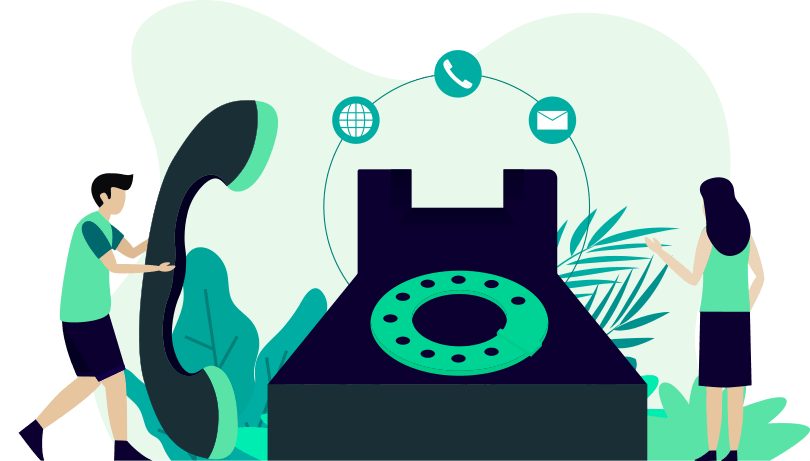
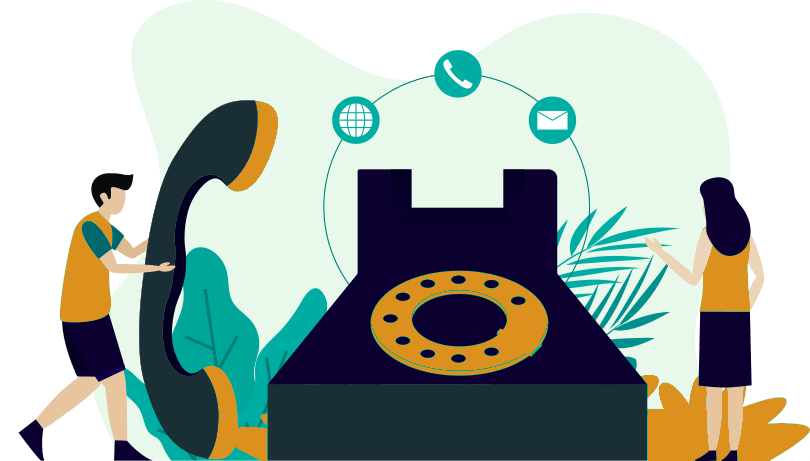
small design changes

diff --git a/src/App.jsx b/src/App.jsx
@@ -5,15 +5,15 @@ import AboutPage from "./pages/about"
 import ServicePage from "./pages/service"
 import ServiceDetails from "./templates/service-details"
 import TeamPage from "./pages/team"
-import FaqPage from "./pages/faq"
-import BlogPage from "./pages/blog"
-import BlogLeftSidebarPage from "./pages/blog-left-sidebar"
-import BlogRightSidebarPage from "./pages/blog-right-sidebar"
-import BlogDetailsPage from "./templates/blog-details"
-import BlogAuthor from "./templates/blog-author"
-import BlogDate from "./templates/blog-date"
-import BlogTag from "./templates/blog-tag"
-import BlogCategory from "./templates/blog-category"
+// import FaqPage from "./pages/faq"
+// import BlogPage from "./pages/blog"
+// import BlogLeftSidebarPage from "./pages/blog-left-sidebar"
+// import BlogRightSidebarPage from "./pages/blog-right-sidebar"
+// import BlogDetailsPage from "./templates/blog-details"
+// import BlogAuthor from "./templates/blog-author"
+// import BlogDate from "./templates/blog-date"
+// import BlogTag from "./templates/blog-tag"
+// import BlogCategory from "./templates/blog-category"
 import ContactPage from "./pages/contact"
 import "swiper/components/navigation/navigation.scss"
 import "swiper/swiper.scss"
@@ -50,15 +50,15 @@ const App = () => {
             path={`${process.env.PUBLIC_URL + "/team"}`}
             component={TeamPage}
           />
-          <Route
+          {/* <Route
             path={`${process.env.PUBLIC_URL + "/faq"}`}
             component={FaqPage}
-          />
+          />*/}
           <Route
             path={`${process.env.PUBLIC_URL + "/contact"}`}
             component={ContactPage}
           />
-          <Route
+          {/* <Route
             path={`${process.env.PUBLIC_URL + "/blog"}`}
             component={BlogPage}
           />
@@ -69,8 +69,8 @@ const App = () => {
           <Route
             path={`${process.env.PUBLIC_URL + "/blog-right-sidebar"}`}
             component={BlogRightSidebarPage}
-          />
-          <Route
+          />*/}
+          {/* <Route
             path={`${process.env.PUBLIC_URL + "/blog-details/:id"}`}
             component={BlogDetailsPage}
           />
@@ -81,15 +81,15 @@ const App = () => {
           <Route
             path={`${process.env.PUBLIC_URL + "/date/:date"}`}
             component={BlogDate}
-          />
-          <Route
+          />*/}
+          {/*<Route
             path={`${process.env.PUBLIC_URL + "/tag/:slug"}`}
             component={BlogTag}
           />
           <Route
             path={`${process.env.PUBLIC_URL + "/category/:slug"}`}
             component={BlogCategory}
-          />
+          />*/}
         </Switch>
       </NavScrollTop>
     </Router>

diff --git a/src/assets/scss/component/_team.scss b/src/assets/scss/component/_team.scss
@@ -11,7 +11,7 @@
   }
   margin-right: -30px;
   @include max-screen(767) {
-    margin-right: 0px;
+    margin-right: 0;
   }
 }
 .team-grid-item {
@@ -30,12 +30,10 @@
   @include max-screen(575) {
     width: 100%;
   }
-
-  margin-right: 30px;
   margin-right: 15px;
 
   @include max-screen(575) {
-    margin-right: 0px;
+    margin-right: 0;
   }
   &:nth-child(1) {
     margin-left: 40px;
@@ -51,8 +49,8 @@
       margin-right: 30px;
     }
     @include max-screen(575) {
-      margin-left: 0px;
-      margin-right: 0px;
+      margin-left: 0;
+      margin-right: 0;
     }
   }
 
@@ -60,7 +58,7 @@
     margin-top: 5.625rem;
 
     @include max-screen(575) {
-      margin-top: 0rem;
+      margin-top: 0;
     }
   }
 
@@ -80,7 +78,7 @@
     }
 
     @include max-screen(575) {
-      margin-left: 0px;
+      margin-left: 0;
     }
   }
 }
@@ -88,25 +86,22 @@
 .team-card {
   text-align: center;
   padding: 35px;
-  border: 1px solid #59e3a7;
+  border: 1px solid #dc911e;
   background-color: #fbfbfb;
   border-radius: 85px;
   transition: all 0.3s;
   &:hover,
   &.active {
     border-color: #263238;
-    box-shadow: 0px 9px 35px 0px rgba(0, 0, 0, 0.09);
+    box-shadow: 0 9px 35px 0 rgba(0, 0, 0, 0.09);
   }
   .thumb {
     a {
       display: block;
-      // img {
-      //   width: 100%;
-      // }
     }
   }
   .content {
-    padding: 1.25rem 0rem;
+    padding: 1.25rem 0;
     .title {
       transition: all 0.3s ease-in-out;
       color: $card-headings-color;

diff --git a/src/pages/index.js b/src/pages/index.js
@@ -1,13 +1,13 @@
 import React from "react"
 import ScrollToTop from "../components/scroll-to-top"
 import SEO from "../components/seo"
-import BrandContainer from "../containers/global/brand/index"
-import FunFactContainer from "../containers/global/funfact"
+// import BrandContainer from "../containers/global/brand/index"
+// import FunFactContainer from "../containers/global/funfact"
 import IconBoxContainer from "../containers/global/icon-box"
-import NewsletterArea from "../containers/global/newsletter"
-import TestimonialContainer from "../containers/global/testimonial"
+// import NewsletterArea from "../containers/global/newsletter"
+// import TestimonialContainer from "../containers/global/testimonial"
 import HomeAboutContainer from "../containers/home/about"
-import HomeBlog from "../containers/home/blog"
+// import HomeBlog from "../containers/home/blog"
 import IntroContainer from "../containers/home/intro"
 import ServiceListContainer from "../containers/service/service-list"
 import Footer from "../layouts/footer"
@@ -26,7 +26,7 @@ const HomePage = () => {
           <IconBoxContainer classOption="section-py" />
           {/* <HomeAboutContainer /> */}
           <ServiceListContainer />
-          <TestimonialContainer />
+          {/* <TestimonialContainer /> */}
           {/* <FunFactContainer classOption="mt-10 mt-lg-0" /> */}
           {/* <HomeBlog />
           <NewsletterArea /> */}

diff --git a/src/assets/css/style.css b/src/assets/css/style.css
@@ -3082,7 +3082,7 @@ textarea.form-control-lg {
   -moz-appearance: none;
   appearance: none;
   -webkit-print-color-adjust: exact;
-  color-adjust: exact;
+  print-color-adjust: exact;
   -webkit-transition: background-color 0.15s ease-in-out,
     background-position 0.15s ease-in-out, border-color 0.15s ease-in-out,
     -webkit-box-shadow 0.15s ease-in-out;
@@ -17287,14 +17287,14 @@ textarea.form-control {
 
 @media screen and (max-width: 575px) {
   .team-grid-item:last-child {
-    margin-left: 0px;
+    margin-left: 0;
   }
 }
 
 .team-card {
   text-align: center;
   padding: 35px;
-  border: 1px solid #59e3a7;
+  border: 1px solid #dc911e;
   background-color: #fbfbfb;
   border-radius: 85px;
   -webkit-transition: all 0.3s;

diff --git a/src/assets/css/style.min.css b/src/assets/css/style.min.css
@@ -2758,7 +2758,7 @@ textarea.form-control-lg {
   -moz-appearance: none;
   appearance: none;
   -webkit-print-color-adjust: exact;
-  color-adjust: exact;
+   print-color-adjust: exact;
   -webkit-transition: background-color 0.15s ease-in-out,
     background-position 0.15s ease-in-out, border-color 0.15s ease-in-out,
     -webkit-box-shadow 0.15s ease-in-out;

diff --git a/src/assets/scss/bootstrap/forms/_form-check.scss b/src/assets/scss/bootstrap/forms/_form-check.scss
@@ -25,7 +25,7 @@
   background-size: contain;
   border: $form-check-input-border;
   appearance: none;
-  color-adjust: exact; // Keep themed appearance for print
+  print-color-adjust: exact; // Keep themed appearance for print
   @include transition($form-check-transition);
 
   &[type="checkbox"] {
